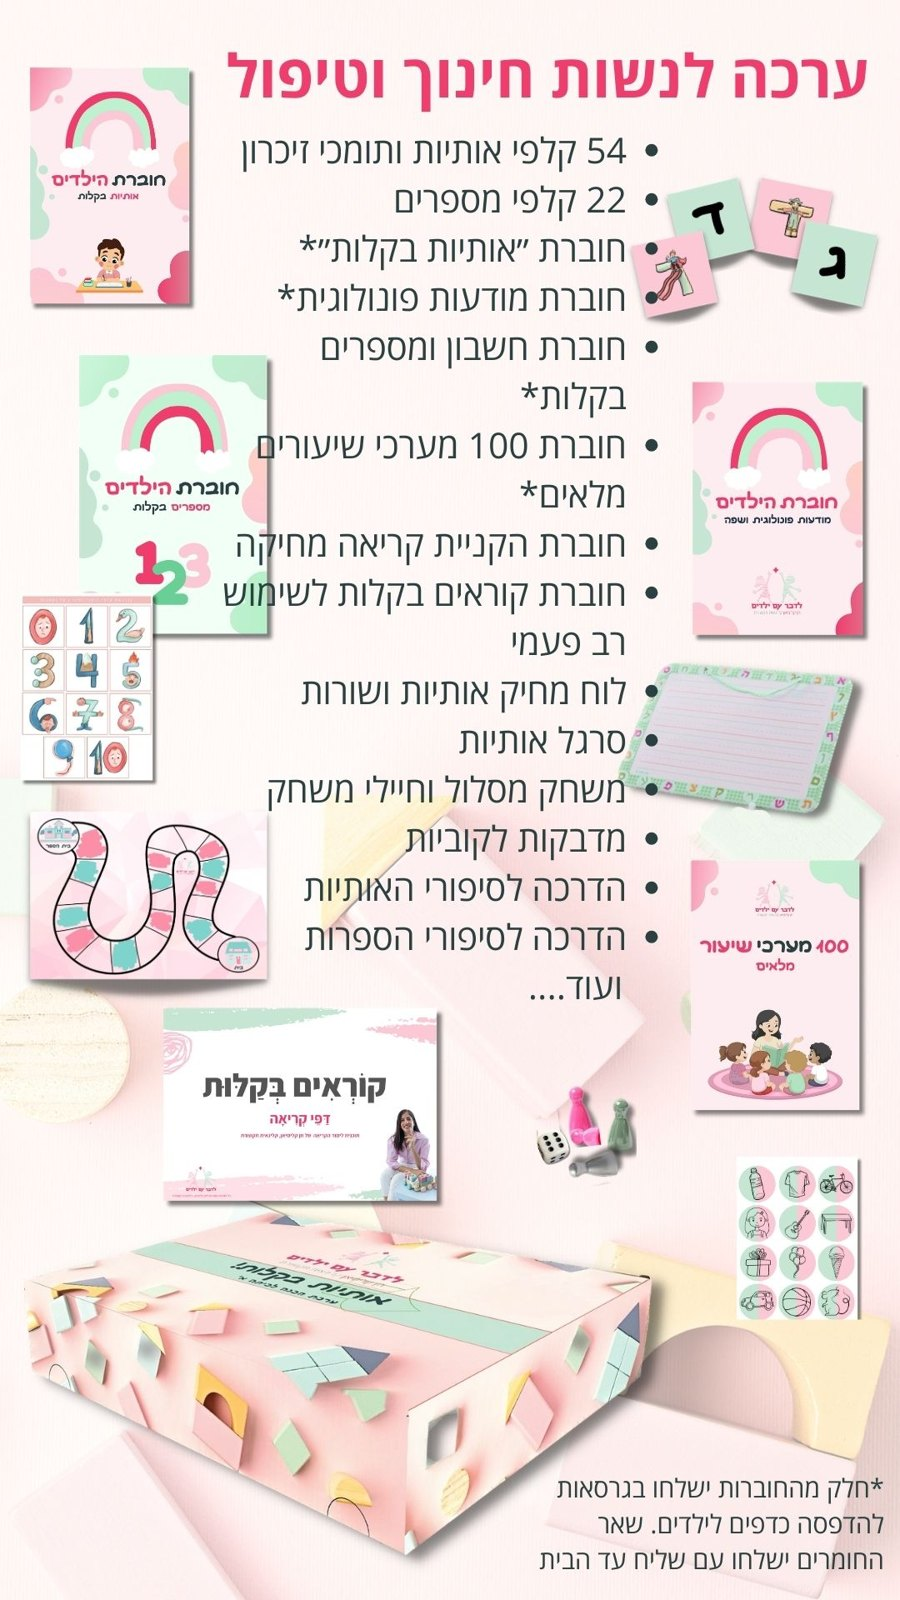
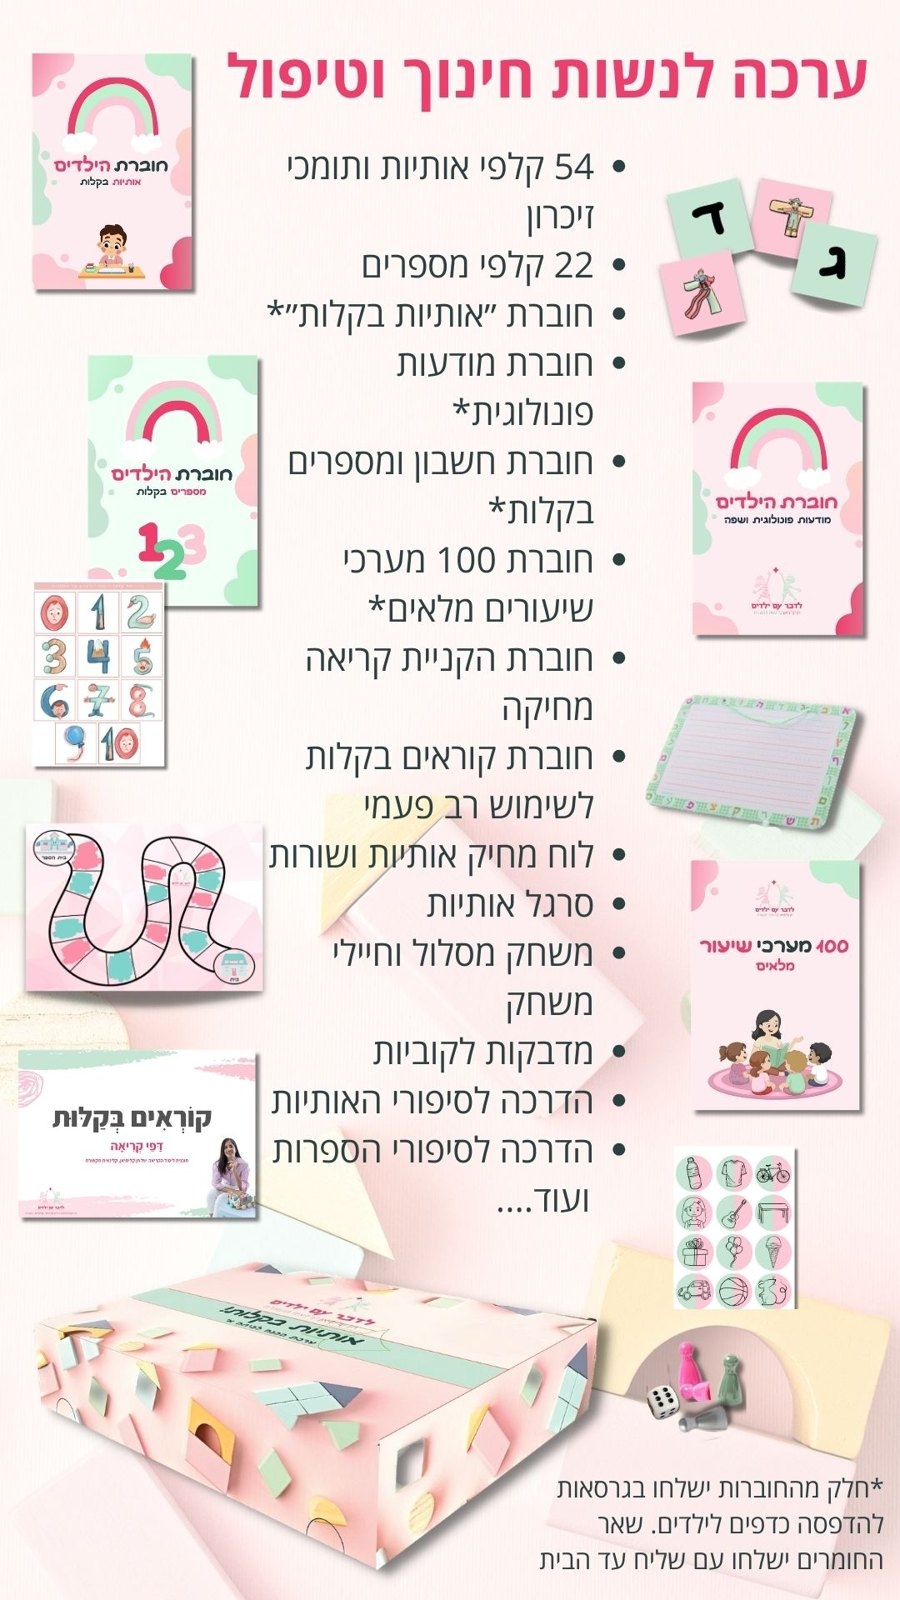
teach/sale1: sync recommendations (3 added to sale1, phone cropped), guarantee on teach, kit image unified

Changed region(s): [[0.0, 0.0312, 0.9644, 1.0]]

diff --git a/sale1-new/index.html b/sale1-new/index.html
@@ -114,7 +114,7 @@ p{margin:0 0 12px}.wrap{max-width:1040px;margin:0 auto;padding:0 18px}.center{te
 <section class="band mint"><div class="wrap"><div class="vwrap"><iframe class="welcome" src="https://hen-kalimian.github.io/talkwithkids-training-links/landing-video.html" title="ברוכות הבאות" loading="lazy"></iframe></div><div style="margin-top:14px"><figure class="shot"><img src="img/b27.jpg" alt="" loading="lazy"></figure></div></div></section>
 <section class="band sky"><div class="wrap"><div class="grid g3 proofs snap"><figure class="shot"><img src="img/b28.jpg" alt="" loading="lazy"></figure><figure class="shot"><img src="img/b29.jpg" alt="" loading="lazy"></figure><figure class="shot"><img src="img/b30.jpg" alt="" loading="lazy"></figure></div></div></section>
 <section class="band white"><div class="wrap"><div class="center"><span class="kicker">התחום השיווקי-עסקי</span></div><div class="steps"><div class="step"><span class="num">1</span><div><p>איך לפתוח עסק עצמאי רווחי (הרצאה של רואה חשבון)?</p></div></div><div class="step"><span class="num">2</span><div><p>איך לתמחר ולהציע את הקורס מבלי לשכנע את ההורים?</p></div></div><div class="step"><span class="num">3</span><div><p>מהי השיטה הסודית למלא קבוצות הכנה לכיתה א'?</p></div></div><div class="step"><span class="num">4</span><div><p>איך לבחור את שיטת השיווק שמתאימה לי ולהביא לקוחות מבלי להשתעבד לשיווק?</p></div></div><div class="step"><span class="num">5</span><div><p>איך להשתמש באינסטגרם, בפייסבוק ובטיקטוק מבלי לצלם את עצמנו ולהעלות תכנים בעקביות?</p></div></div><div class="step"><span class="num">6</span><div><p>איך ליצור לעצמך תמונות תדמית ריאליסטיות בבינה מלאכותית?</p></div></div><div class="step"><span class="num">7</span><div><p>איך להפעיל פרסום ממומן מדויק שמביא לקוחות חדשים?</p></div></div><div class="step"><span class="num">8</span><div><p>איך לבנות דף נחיתה מקצועי שמושך לקוחות?</p></div></div><div class="step"><span class="num">9</span><div><p>איך לעצב חומרים ותכנים בקאנבה וליצור מהם את הפלאייר המושלם?</p></div></div><div class="step"><span class="num">10</span><div><p>איך עובד שיווק מפה לאוזן ואיך כבר במחזור הראשון תגרמי להורים למלא לך את הקבוצה?</p></div></div></div></div></section>
-<section class="band mint"><div class="wrap"><div class="grid g2 proofs snap"><figure class="shot"><img src="img/b31.jpg" alt="" loading="lazy"></figure><figure class="shot"><img src="img/b32.jpg" alt="" loading="lazy"></figure></div></div></section>
+<section class="band mint"><div class="wrap"><div class="grid g2 proofs snap"><figure class="shot"><img src="img/b31.jpg" alt="" loading="lazy"></figure><figure class="shot"><img src="img/b32.jpg" alt="" loading="lazy"></figure><figure class="shot"><img src="img/b33.jpg" alt="" loading="lazy"></figure><figure class="shot"><img src="img/b34.jpg" alt="" loading="lazy"></figure><figure class="shot"><img src="img/b35.jpg" alt="" loading="lazy"></figure></div></div></section>
 <section class="band pink"><div class="wrap"><div class="card story"><p>12 שיעורי ההכשרה המקצועית מוקלטים לצפייה והתקדמות בקצב שנכון לך</p>
 <p>לצד 12 מפגשי לייב בזום לתוכן וליווי מקצועי-עסקי</p><p class="big">לצורך קבלת תעודת הכשרה חלה חובת צפייה וסיכום השיעורים + ביצוע משימה קצרה ופרקטית לכל שיעור לשיפור המקצועיות</p><p>(את המשימות יש להגיש במרוכז בסיום התוכנית)</p><p>לנרשמות למחזור הקרוב בלבד תנתן האפשרות לקבל את התעודה החל מ-4 שבועות ועד שנה ממועד ההרשמה לתוכנית!</p><p class="closer">את נהנית ממחיר ההטבה עכשיו - ומתקדמת בקצב שלך</p></div></div></section>
 <section class="band white"><div class="wrap"><div class="center"><h2>שאלות שבטח שאלת את עצמך...</h2></div><div class="faq"><details><summary>אם אין לי ניסיון, זה יתאים לי?</summary><p>אם את מגיעה ממקצועות החינוך או הטיפול והתשוקה שלך היא לעזור לילדים אז בהחלט כן, אין צורך בידע מקדים מכיוון שהתוכנית מלווה אותך באופן ממוקד ותצאי ממנה עם כל הידע המקצועי והעסקי שאת צריכה.</p></details><details><summary>איך אדע אם זה מה שאני מחפשת?</summary><p>הדבר הראשון שנעשה בשיחה - נבדוק מה את רוצה, מה הצרכים והרצונות שלך ולאחר מכן נדע האם התוכנית יכולה להתאים לך ואם כן - נתאים את הפורמט המדוייק עבורך.</p></details><details><summary>האם יש ליווי?</summary><p>הליווי המקצועי והעסקי יתקיימו בזום למשך חצי שנה ובקבוצת וואטסאפ סגורה למשך שנה ולכן גם מספר המשתתפות מצומצם לצורך מענה אישי ככל הניתן.</p></details><details><summary>זה רק למי שרוצה לעבוד אחר הצהריים?</summary><p>עצמאיות בוחרות בדרך שנוחה להן. יש מי שבוחרות לעבוד פעמיים בשבוע בין 15:00-17:00 וכך להכניס 8,000 שח עד 16,000 ש"ח נוספים בכל חודש, ויש מי שבוחרות לקחת שיעור פרטי אחד או שניים בשבוע בשעה 14:00 או 8:00 ולהכניס "רק" עוד 2000 ש"ח בחודש. זה תלוי רק בך.</p><p>אני אלמד אותך להביא את עצמך לביקוש רב כל כך עד שתמלאי כל שעה בה תרצי לקבל ילדים.</p></details></div></div></section>

diff --git a/sale1-new/p2.html b/sale1-new/p2.html
@@ -108,7 +108,7 @@ body{background:transparent}</style></head><body><section class="band pink"><div
 <section class="band mint"><div class="wrap"><div class="vwrap"><iframe class="welcome" src="https://hen-kalimian.github.io/talkwithkids-training-links/landing-video.html" title="ברוכות הבאות" loading="lazy"></iframe></div><div style="margin-top:14px"><figure class="shot"><img src="img/b27.jpg" alt=""></figure></div></div></section>
 <section class="band sky"><div class="wrap"><div class="grid g3 proofs snap"><figure class="shot"><img src="img/b28.jpg" alt=""></figure><figure class="shot"><img src="img/b29.jpg" alt=""></figure><figure class="shot"><img src="img/b30.jpg" alt=""></figure></div></div></section>
 <section class="band white"><div class="wrap"><div class="center"><span class="kicker">התחום השיווקי-עסקי</span></div><div class="steps"><div class="step"><span class="num">1</span><div><p>איך לפתוח עסק עצמאי רווחי (הרצאה של רואה חשבון)?</p></div></div><div class="step"><span class="num">2</span><div><p>איך לתמחר ולהציע את הקורס מבלי לשכנע את ההורים?</p></div></div><div class="step"><span class="num">3</span><div><p>מהי השיטה הסודית למלא קבוצות הכנה לכיתה א'?</p></div></div><div class="step"><span class="num">4</span><div><p>איך לבחור את שיטת השיווק שמתאימה לי ולהביא לקוחות מבלי להשתעבד לשיווק?</p></div></div><div class="step"><span class="num">5</span><div><p>איך להשתמש באינסטגרם, בפייסבוק ובטיקטוק מבלי לצלם את עצמנו ולהעלות תכנים בעקביות?</p></div></div><div class="step"><span class="num">6</span><div><p>איך ליצור לעצמך תמונות תדמית ריאליסטיות בבינה מלאכותית?</p></div></div><div class="step"><span class="num">7</span><div><p>איך להפעיל פרסום ממומן מדויק שמביא לקוחות חדשים?</p></div></div><div class="step"><span class="num">8</span><div><p>איך לבנות דף נחיתה מקצועי שמושך לקוחות?</p></div></div><div class="step"><span class="num">9</span><div><p>איך לעצב חומרים ותכנים בקאנבה וליצור מהם את הפלאייר המושלם?</p></div></div><div class="step"><span class="num">10</span><div><p>איך עובד שיווק מפה לאוזן ואיך כבר במחזור הראשון תגרמי להורים למלא לך את הקבוצה?</p></div></div></div></div></section>
-<section class="band mint"><div class="wrap"><div class="grid g2 proofs snap"><figure class="shot"><img src="img/b31.jpg" alt=""></figure><figure class="shot"><img src="img/b32.jpg" alt=""></figure></div></div></section>
+<section class="band mint"><div class="wrap"><div class="grid g2 proofs snap"><figure class="shot"><img src="img/b31.jpg" alt=""></figure><figure class="shot"><img src="img/b32.jpg" alt=""></figure><figure class="shot"><img src="img/b33.jpg" alt=""></figure><figure class="shot"><img src="img/b34.jpg" alt=""></figure><figure class="shot"><img src="img/b35.jpg" alt=""></figure></div></div></section>
 <section class="band pink"><div class="wrap"><div class="card story"><p>12 שיעורי ההכשרה המקצועית מוקלטים לצפייה והתקדמות בקצב שנכון לך</p>
 <p>לצד 12 מפגשי לייב בזום לתוכן וליווי מקצועי-עסקי</p><p class="big">לצורך קבלת תעודת הכשרה חלה חובת צפייה וסיכום השיעורים + ביצוע משימה קצרה ופרקטית לכל שיעור לשיפור המקצועיות</p><p>(את המשימות יש להגיש במרוכז בסיום התוכנית)</p><p>לנרשמות למחזור הקרוב בלבד תנתן האפשרות לקבל את התעודה החל מ-4 שבועות ועד שנה ממועד ההרשמה לתוכנית!</p><p class="closer">את נהנית ממחיר ההטבה עכשיו - ומתקדמת בקצב שלך</p></div></div></section>
 <section class="band white"><div class="wrap"><div class="center"><h2>שאלות שבטח שאלת את עצמך...</h2></div><div class="faq"><details><summary>אם אין לי ניסיון, זה יתאים לי?</summary><p>אם את מגיעה ממקצועות החינוך או הטיפול והתשוקה שלך היא לעזור לילדים אז בהחלט כן, אין צורך בידע מקדים מכיוון שהתוכנית מלווה אותך באופן ממוקד ותצאי ממנה עם כל הידע המקצועי והעסקי שאת צריכה.</p></details><details><summary>איך אדע אם זה מה שאני מחפשת?</summary><p>הדבר הראשון שנעשה בשיחה - נבדוק מה את רוצה, מה הצרכים והרצונות שלך ולאחר מכן נדע האם התוכנית יכולה להתאים לך ואם כן - נתאים את הפורמט המדוייק עבורך.</p></details><details><summary>האם יש ליווי?</summary><p>הליווי המקצועי והעסקי יתקיימו בזום למשך חצי שנה ובקבוצת וואטסאפ סגורה למשך שנה ולכן גם מספר המשתתפות מצומצם לצורך מענה אישי ככל הניתן.</p></details><details><summary>זה רק למי שרוצה לעבוד אחר הצהריים?</summary><p>עצמאיות בוחרות בדרך שנוחה להן. יש מי שבוחרות לעבוד פעמיים בשבוע בין 15:00-17:00 וכך להכניס 8,000 שח עד 16,000 ש"ח נוספים בכל חודש, ויש מי שבוחרות לקחת שיעור פרטי אחד או שניים בשבוע בשעה 14:00 או 8:00 ולהכניס "רק" עוד 2000 ש"ח בחודש. זה תלוי רק בך.</p><p>אני אלמד אותך להביא את עצמך לביקוש רב כל כך עד שתמלאי כל שעה בה תרצי לקבל ילדים.</p></details></div></div></section>

diff --git a/teach-new/p4.html b/teach-new/p4.html
@@ -96,7 +96,7 @@ p{margin:0 0 12px}.wrap{max-width:1040px;margin:0 auto;padding:0 18px}.center{te
 .welcome{width:min(100%,420px);height:640px;border:4px solid #fff;border-radius:24px;box-shadow:0 0 0 3px var(--card-line);background:#fff}
 .emo{font-size:20px;margin:4px 0}.heroCta{margin-top:12px}.form h3{font-size:22px}.form small{font-size:16px;color:var(--deep)}
 .by{font-weight:700}
-body{background:transparent}</style></head><body><section class="band pink"><div class="wrap"><div class="center"><p class="micro">בסוף השבוע המחיר יעלה וההזדמנות לא תחזור</p></div></div></section>
+body{background:transparent}</style></head><body><section class="band pink"><div class="wrap"><div class="card" style="max-width:640px;margin:0 auto 14px;text-align:center"><p class="big"><b>אחריות:</b> אם ביצעת את כל המשימות במשך 3 חודשים ולא החזרת את ההשקעה תוך חודשיים לאחר מכן, החזר כספי מלא.</p><p class="micro">בכפוף לתקנון: יש לבצע גם את משימות ההכשרה העסקית, כמו פרסום פלאיירים, פרסום ממומן, שיווק ברשתות החברתיות ועוד.</p></div><div class="center"><p class="micro">בסוף השבוע המחיר יעלה וההזדמנות לא תחזור</p></div></div></section>
 <section class="band white"><div class="wrap"><div class="center"><a class="btn" href="https://www.talkwithkids.co.il/teach#comp-m85nhwjs2">לפרטים לחצי כאן</a></div></div></section><script>
 (function(){try{
 function il(){return new Date(new Date().toLocaleString('en-US',{timeZone:'Asia/Jerusalem'}))}
